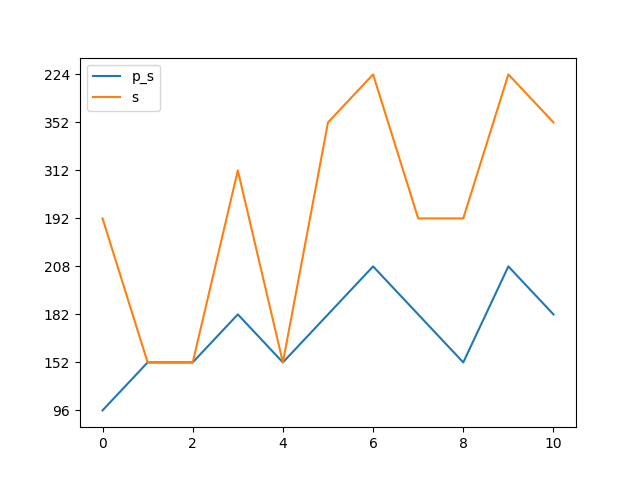
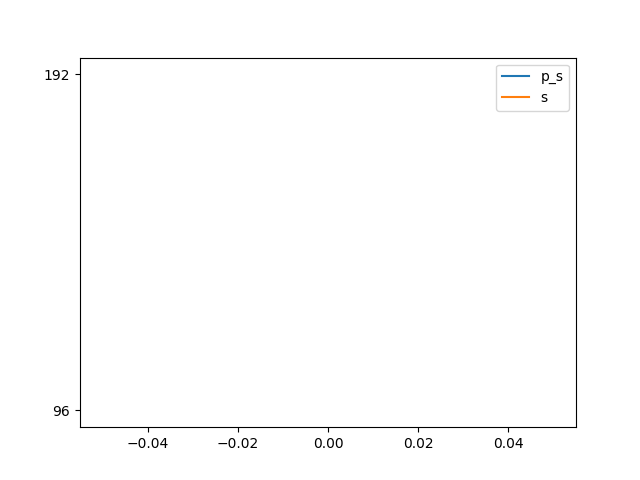
0x0000

diff --git a/benchmark.md b/benchmark.md
@@ -2,26 +2,6 @@
 
 Synthesising 0x0000 pexact:96 r=4 exact:192 r=4
 
-Synthesising 0x0001 pexact:152 r=3 exact:152 r=3
-
-Synthesising 0x0002 pexact:152 r=3 exact:152 r=3
-
-Synthesising 0x0003 pexact:182 r=4 exact:312 r=4
-
-Synthesising 0x0004 pexact:152 r=3 exact:152 r=3
-
-Synthesising 0x0005 pexact:182 r=4 exact:352 r=4
-
-Synthesising 0x0006 pexact:208 r=4 exact:224 r=3
-
-Synthesising 0x0007 pexact:182 r=4 exact:192 r=3
-
-Synthesising 0x0008 pexact:152 r=3 exact:192 r=3
-
-Synthesising 0x0009 pexact:208 r=4 exact:224 r=3
-
-Synthesising 0x000A pexact:182 r=4 exact:352 r=4
-
 <img src=benchmark_r0.png width=400 heigth=400>
 
 <img src=benchmark_s0.png width=400 heigth=400>
